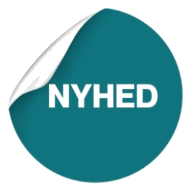
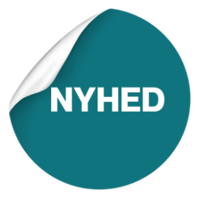
v4.0.0: Update news sticker image in catalog and PDF views

diff --git a/app_version.php b/app_version.php
@@ -1,1 +1,1 @@
-<?php return '3.9.0';
+<?php return '4.0.0';
